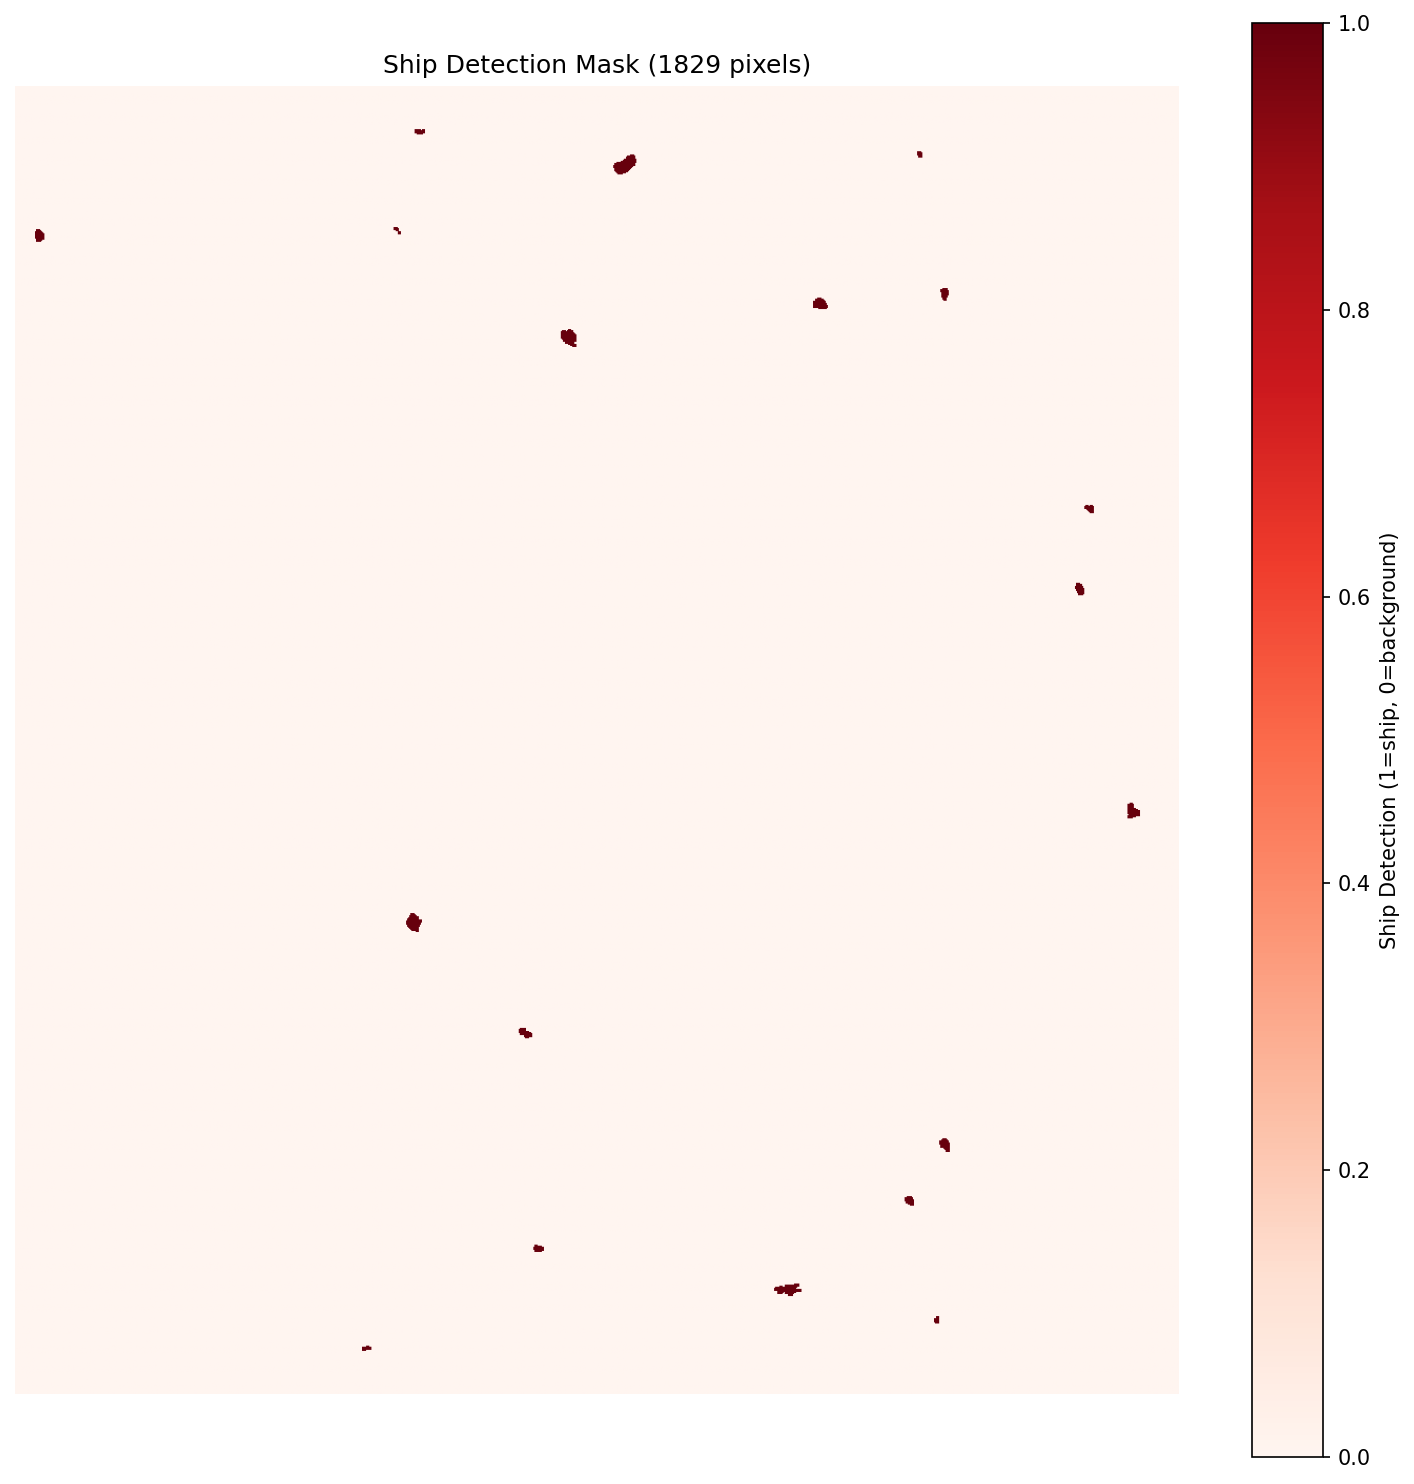
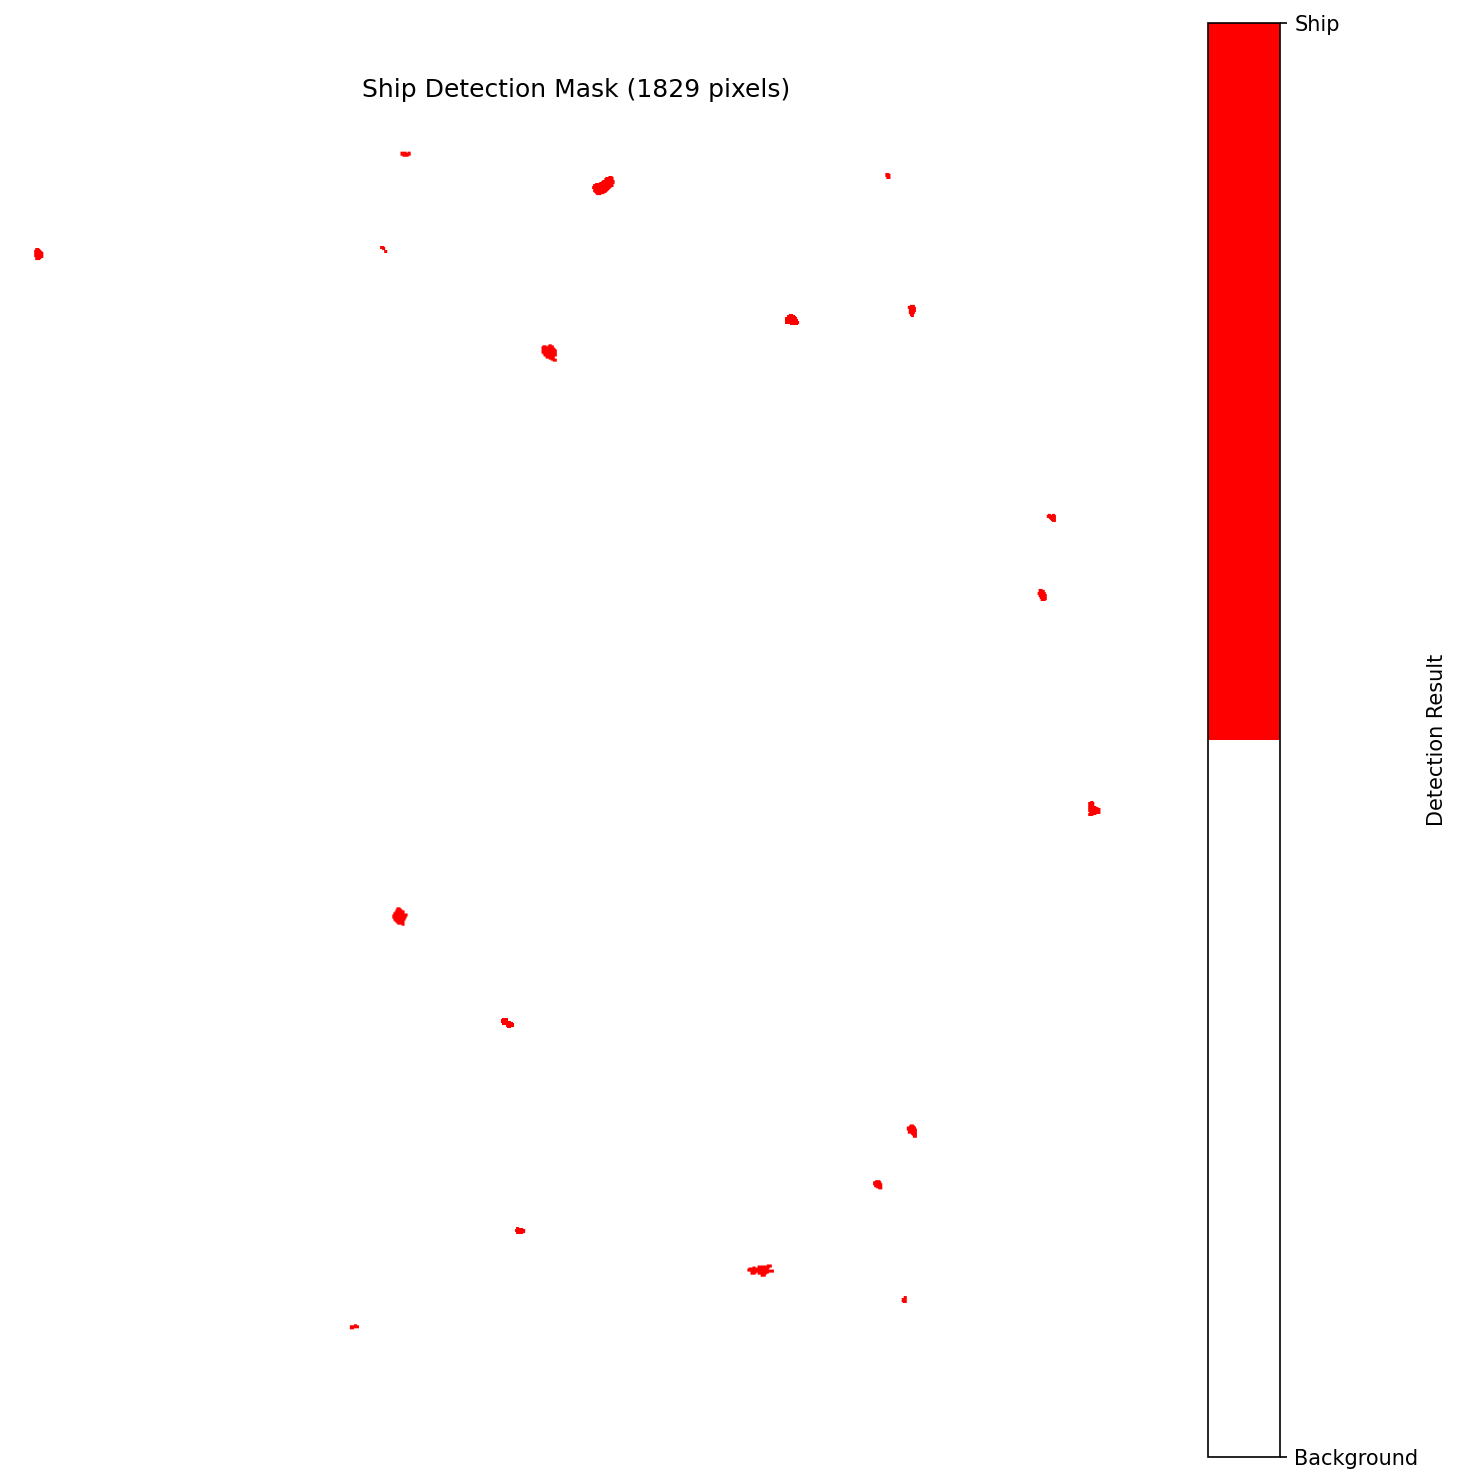
Discrete legend

diff --git a/ship_detector_rx.py b/ship_detector_rx.py
@@ -172,13 +172,23 @@ class ShipDetectorRX:
             filepath: Path where to save the ship mask image
         """
         import matplotlib.pyplot as plt
+        from matplotlib.colors import ListedColormap
         
         ship_mask = self.create_ship_mask()
         
+        # Create discrete colormap for binary values
+        colors = ['white', 'red']  # 0 = white (background), 1 = red (ship)
+        cmap = ListedColormap(colors)
+        
         plt.figure(figsize=(10, 10))
-        plt.imshow(ship_mask, cmap='Reds')
+        im = plt.imshow(ship_mask, cmap=cmap, vmin=0, vmax=1)
         plt.title(f"Ship Detection Mask ({ship_mask.sum()} pixels)")
-        plt.colorbar(label='Ship Detection (1=ship, 0=background)')
+        
+        # Create discrete colorbar
+        cbar = plt.colorbar(im, ticks=[0, 1])
+        cbar.set_ticklabels(['Background', 'Ship'])
+        cbar.set_label('Detection Result')
+        
         plt.axis('off')
         plt.tight_layout()
         plt.savefig(filepath, dpi=150, bbox_inches='tight')
